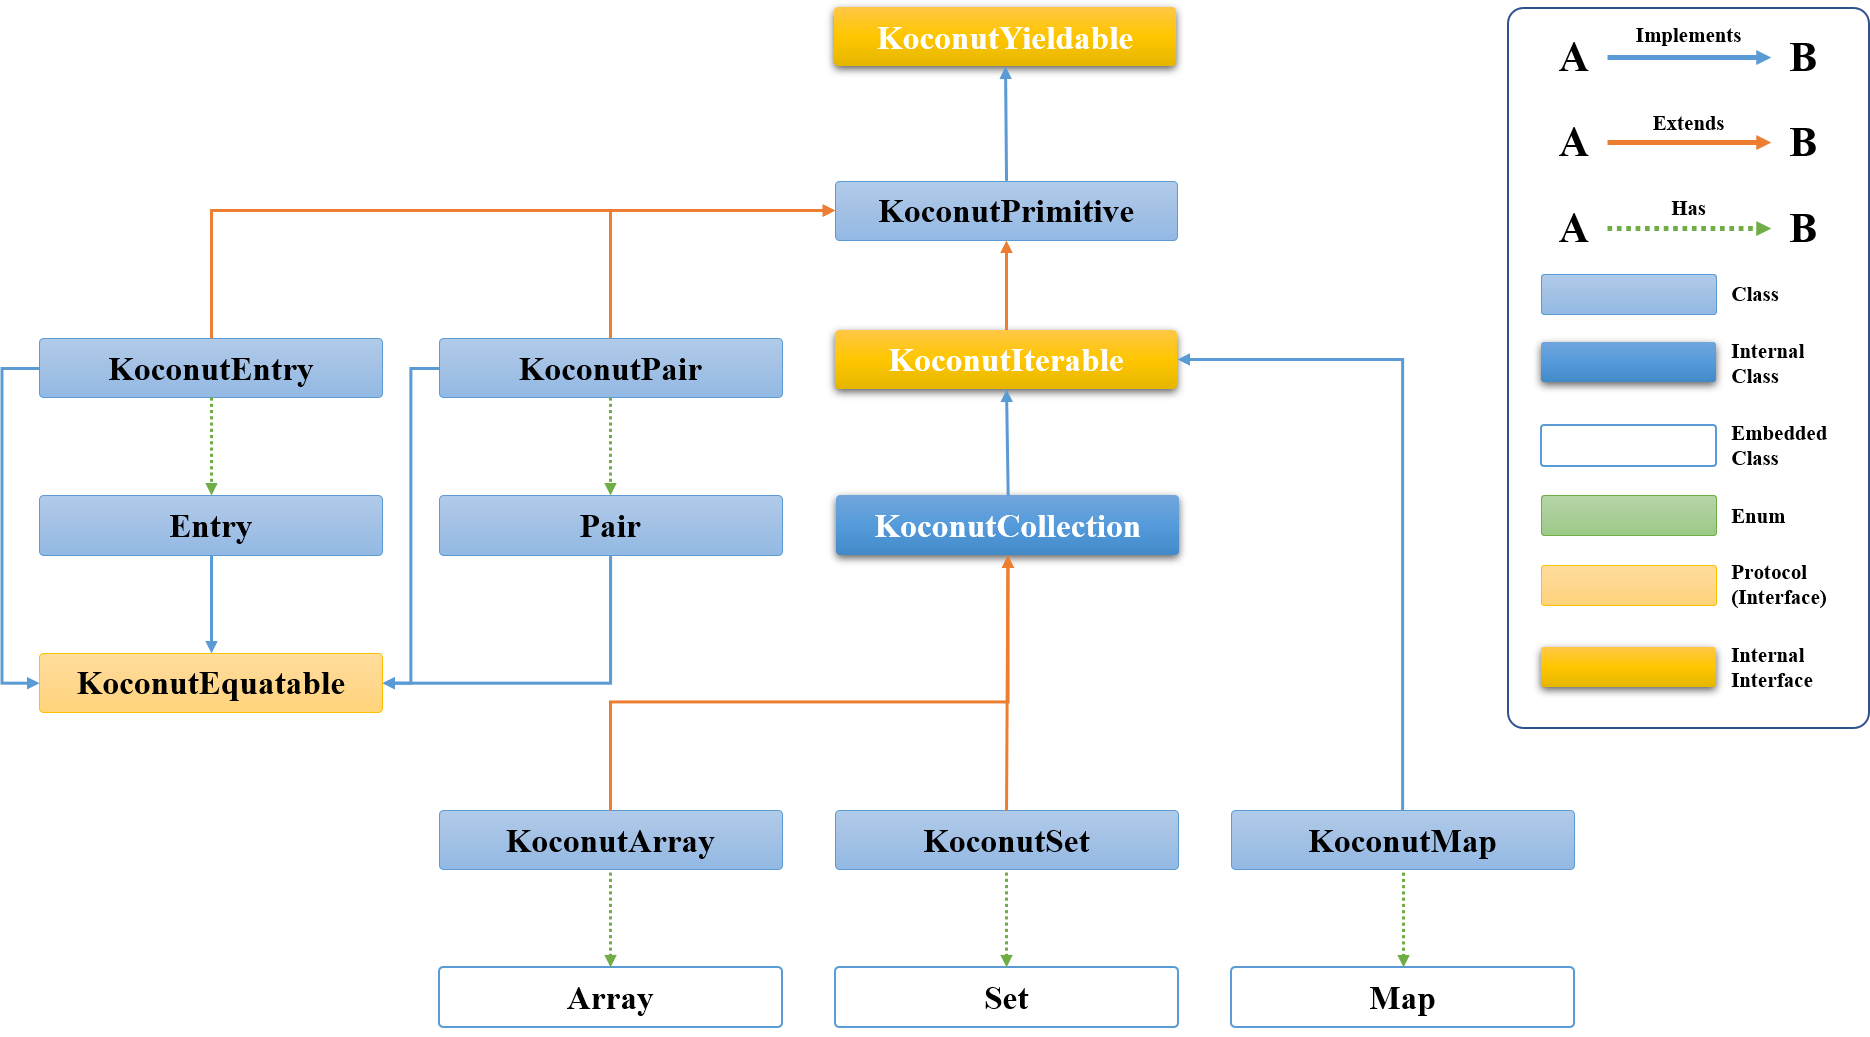
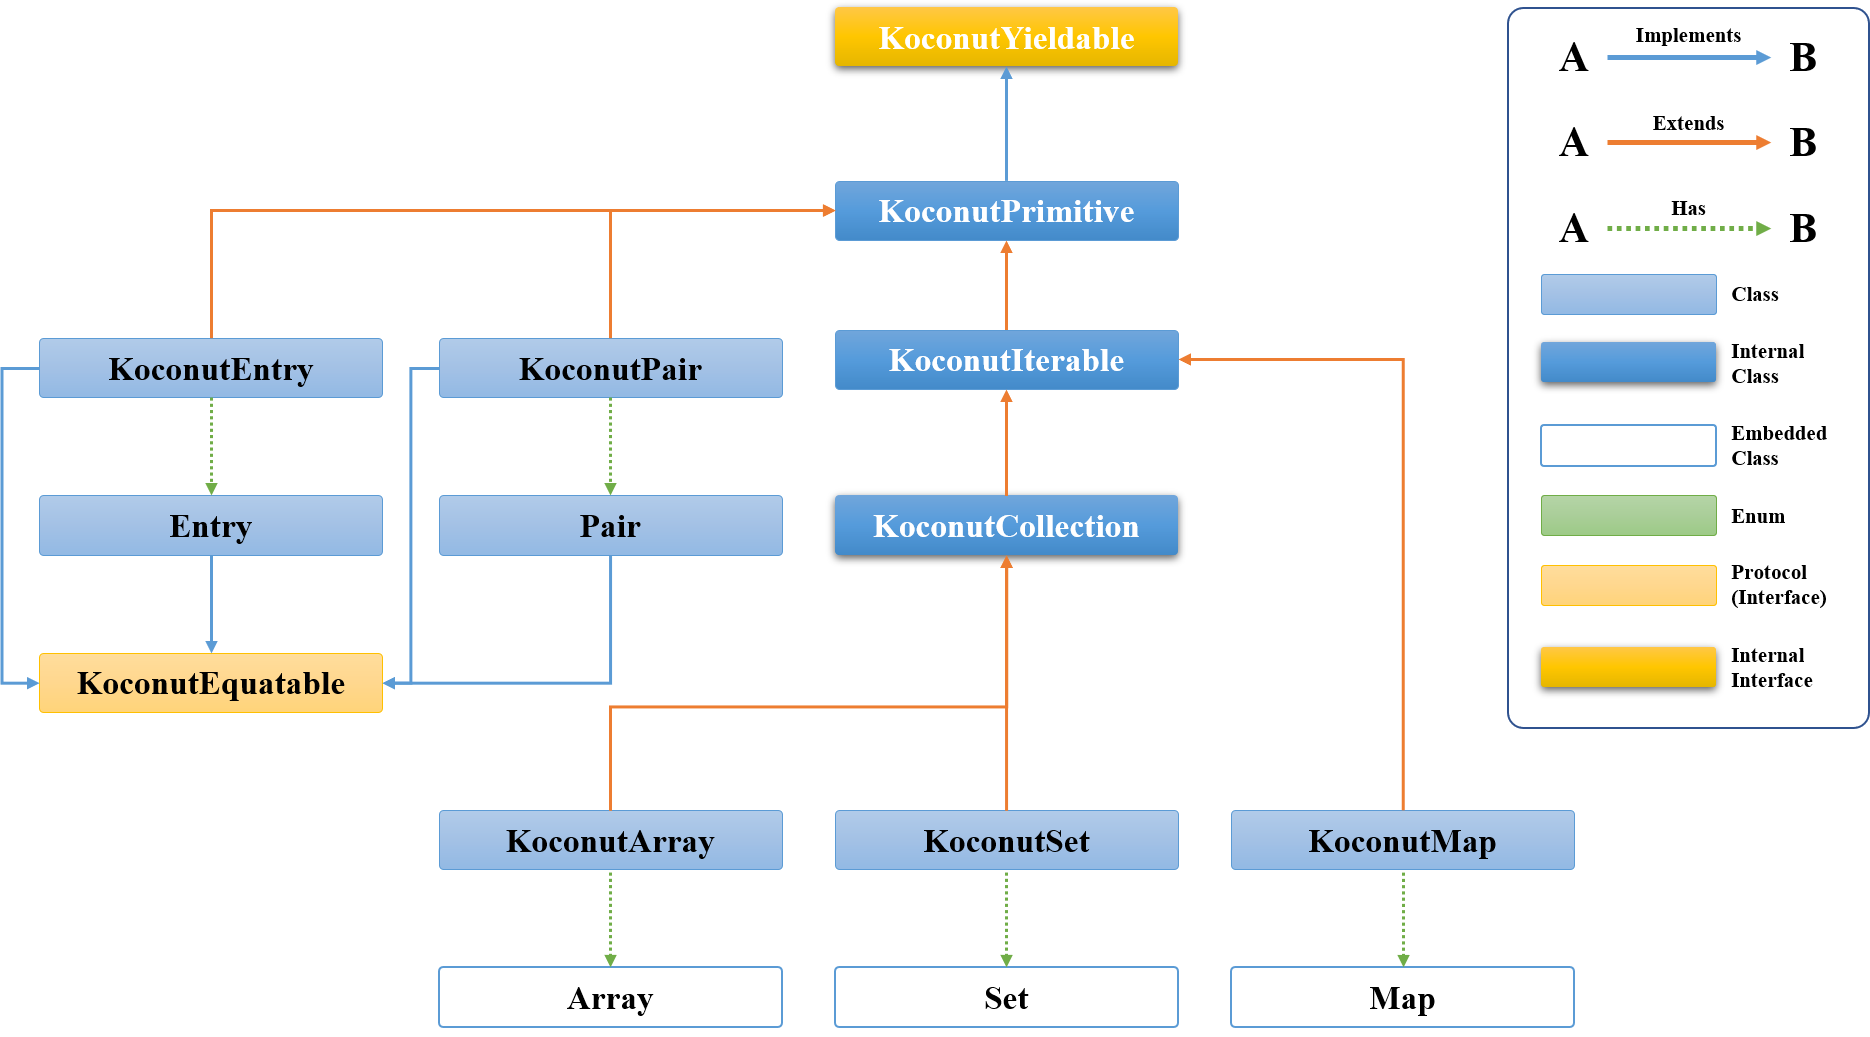
README 오타 및 Hierarchy 그림 수정

diff --git a/README.npm.md b/README.npm.md
@@ -191,7 +191,7 @@ const mainProcess = async () => {
             validResults.push(eachResult)
     }
 
-    console.log(validResults) // --- [1] : Valid results matches the given condition
+    console.log(validResults) // --- [1] : Valid results match the given condition
     console.log("Nailed it!") 
 
 }
@@ -364,7 +364,7 @@ Methods start with `on` return the original collection itself.
     }
     mainProcess()
 ```
-And of course, methods of which name end with `indexed` have action block given with two arguments.
+And of course, methods of which names end with `indexed` have action block given with two arguments.
 
  One is index, and the other is element.
 
